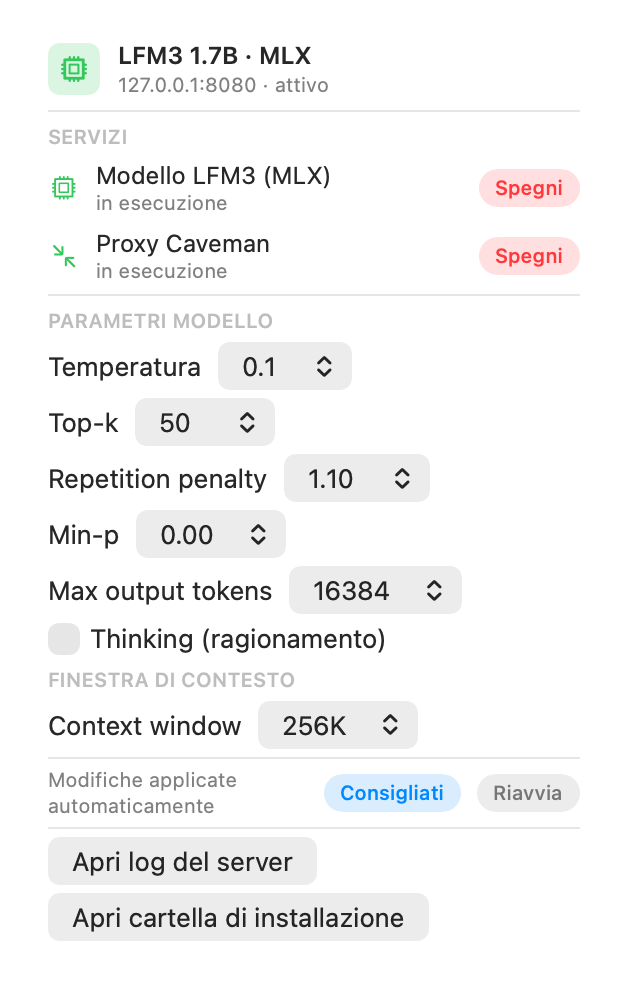
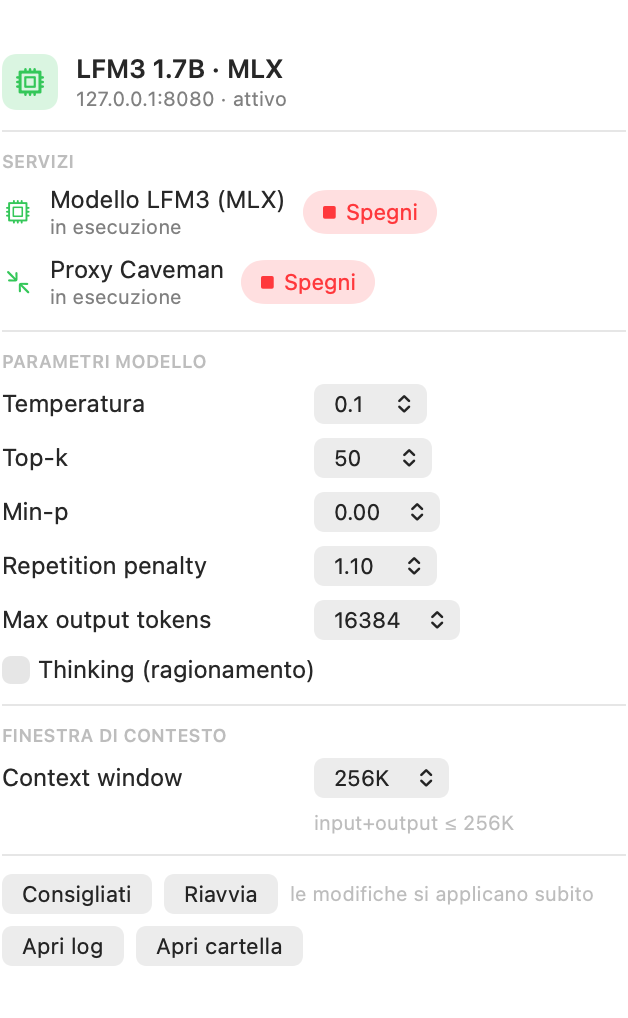
UI: pannello personalizzato con layout allineato a sinistra
- .menuBarExtraStyle(.window): il menu nativo imposeva sottomenu per i picker
  (Temperatura >) e pulsanti a tutta larghezza su righe separate
- etichette, controlli, pulsanti e opzioni tutti allineati a sinistra
- pulsanti Spegni/Accendi spostati accanto al testo del servizio
- nuovo parametro min-p e pulsante 'Consigliati' per i valori ufficiali LFM3
- indicatore dell'ora di applicazione e didascalia sul limite di contesto
- install.sh: sequenziamento bootout/sleep/bootstrap (evita I/O error) e verifica
- release con LFM3Control.app impacchettato

diff --git a/src/LFM3Control.swift b/src/LFM3Control.swift
@@ -276,26 +276,34 @@ final class AppState: ObservableObject {
     }
 }
 
-// MARK: - Interfaccia
+// MARK: - Interfaccia (pannello)
 
-private struct SectionHeader: View {
-    let text: String
+private struct ValuePicker<T: Hashable>: View {
+    @Binding var selection: T
+    let options: [T]
+    let label: (T) -> String
+
     var body: some View {
-        Text(text.uppercased())
-            .font(.system(size: 10, weight: .semibold))
-            .foregroundStyle(.tertiary)
-            .padding(.top, 2)
+        Picker("", selection: $selection) {
+            ForEach(options, id: \.self) { Text(label($0)).tag($0) }
+        }
+        .pickerStyle(.menu)
+        .labelsHidden()
+        .controlSize(.small)
+        .frame(width: 96, alignment: .leading)
     }
 }
+
+
 
 private struct ServiceRow: View {
     @ObservedObject var service: Service
 
     var body: some View {
-        HStack(spacing: 8) {
+        HStack(alignment: .center, spacing: 8) {
             Image(systemName: service.symbol)
                 .font(.system(size: 12))
-                .frame(width: 16)
+                .frame(width: 16, alignment: .center)
                 .foregroundStyle(service.isRunning ? Color.green : Color.secondary)
             VStack(alignment: .leading, spacing: 0) {
                 Text(service.title).font(.system(size: 12))
@@ -303,35 +311,55 @@ private struct ServiceRow: View {
                     .font(.system(size: 10))
                     .foregroundStyle(.secondary)
             }
-            Spacer(minLength: 8)
-            if service.isBusy {
-                ProgressView().controlSize(.small).scaleEffect(0.7)
-            } else {
-                Button {
-                    service.toggle()
-                } label: {
+            Button {
+                service.toggle()
+            } label: {
+                HStack(spacing: 4) {
+                    Image(systemName: service.isRunning ? "stop.fill" : "play.fill")
+                        .font(.system(size: 8))
                     Text(service.isRunning ? "Spegni" : "Accendi")
-                        .font(.system(size: 10, weight: .medium))
-                        .padding(.horizontal, 8)
-                        .padding(.vertical, 3)
-                        .background(
-                            Capsule().fill(
-                                (service.isRunning ? Color.red : Color.green).opacity(0.16)
-                            )
-                        )
-                        .foregroundStyle(service.isRunning ? Color.red : Color.green)
+                        .font(.system(size: 11))
                 }
-                .buttonStyle(.plain)
+                .padding(.horizontal, 9)
+                .padding(.vertical, 4)
+                .background(
+                    Capsule().fill((service.isRunning ? Color.red : Color.green).opacity(0.16))
+                )
+                .foregroundStyle(service.isRunning ? Color.red : Color.green)
             }
+            .buttonStyle(.plain)
+            .disabled(service.isBusy)
         }
         .padding(.vertical, 1)
+    }
+}
+
+private struct SectionLabel: View {
+    let text: String
+    var body: some View {
+        Text(text.uppercased())
+            .font(.system(size: 9, weight: .semibold))
+            .foregroundStyle(.tertiary)
     }
 }
 
 struct MenuContent: View {
     @ObservedObject var state: AppState
 
-    /// Binding che applica subito la modifica (niente pulsante "Applica" dimenticato).
+    /// Riga etichetta + controllo, tutto allineato a sinistra.
+    @ViewBuilder
+    private func paramRow<T: View>(_ label: String, @ViewBuilder control: () -> T) -> some View {
+        HStack(alignment: .firstTextBaseline, spacing: 8) {
+            Text(label)
+                .font(.system(size: 12))
+                .frame(width: 148, alignment: .leading)
+            control()
+            Spacer(minLength: 0)
+        }
+        .padding(.vertical, 1)
+    }
+
+    /// Binding che applica subito la modifica (nessun pulsante "Applica" da ricordare).
     private func bind<T>(_ get: @escaping () -> T, _ set: @escaping (T) -> Void) -> Binding<T> {
         Binding(get: get, set: { newValue in
             set(newValue)
@@ -340,131 +368,172 @@ struct MenuContent: View {
     }
 
     var body: some View {
-        VStack(alignment: .leading, spacing: 4) {
+        VStack(alignment: .leading, spacing: 9) {
             header
-            Divider()
-
-            SectionHeader(text: "Servizi")
-            ServiceRow(service: state.model)
-            ServiceRow(service: state.caveman)
 
             Divider()
 
-            SectionHeader(text: "Parametri modello")
-            Picker("Temperatura", selection: bind({ state.settings.temperature }, { state.settings.temperature = $0 })) {
-                ForEach([0.0, 0.1, 0.3, 0.5, 0.7, 1.0], id: \.self) {
-                    Text(String(format: "%.1f", $0)).tag($0)
-                }
-            }
-            Picker("Top-k", selection: bind({ state.settings.topK }, { state.settings.topK = $0 })) {
-                ForEach([0, 20, 50, 100], id: \.self) {
-                    Text($0 == 0 ? "off" : String($0)).tag($0)
-                }
-            }
-            Picker("Repetition penalty", selection: bind({ state.settings.repetitionPenalty }, { state.settings.repetitionPenalty = $0 })) {
-                ForEach([1.0, 1.05, 1.1, 1.2], id: \.self) {
-                    Text(String(format: "%.2f", $0)).tag($0)
-                }
-            }
-            Picker("Min-p", selection: bind({ state.settings.minP }, { state.settings.minP = $0 })) {
-                ForEach([0.0, 0.05, 0.1], id: \.self) {
-                    Text(String(format: "%.2f", $0)).tag($0)
-                }
-            }
-            Picker("Max output tokens", selection: bind({ state.settings.maxTokens }, { state.settings.maxTokens = $0 })) {
-                ForEach([2048, 4096, 8192, 16384], id: \.self) {
-                    Text(String($0)).tag($0)
-                }
-            }
-            Toggle("Thinking (ragionamento)", isOn: bind({ state.settings.enableThinking }, { state.settings.enableThinking = $0 }))
-
-            SectionHeader(text: "Finestra di contesto")
-            Picker("Context window", selection: Binding(
-                get: { state.contextWindow },
-                set: { state.applyContext($0) }
-            )) {
-                ForEach([32768, 65536, 131072, 262144], id: \.self) {
-                    Text("\($0 / 1024)K").tag($0)
-                }
+            VStack(alignment: .leading, spacing: 5) {
+                SectionLabel(text: "Servizi")
+                ServiceRow(service: state.model)
+                ServiceRow(service: state.caveman)
             }
 
             Divider()
 
-            if let busy = state.busyMessage {
-                HStack(spacing: 6) {
-                    ProgressView().controlSize(.small).scaleEffect(0.6)
-                    Text(busy).font(.system(size: 10)).foregroundStyle(.secondary)
+            VStack(alignment: .leading, spacing: 5) {
+                SectionLabel(text: "Parametri modello")
+                paramRow("Temperatura") {
+                    ValuePicker(
+                        selection: bind({ state.settings.temperature }, { state.settings.temperature = $0 }),
+                        options: [0.0, 0.1, 0.3, 0.5, 0.7, 1.0],
+                        label: { String(format: "%.1f", $0) }
+                    )
                 }
-            }
-
-            HStack {
-                if let applied = state.lastApplied {
-                    Label("Applicato \(applied.formatted(date: .omitted, time: .shortened))", systemImage: "checkmark.circle.fill")
-                        .font(.system(size: 10))
-                        .foregroundStyle(.green)
-                } else {
-                    Text("Modifiche applicate automaticamente")
-                        .font(.system(size: 10))
-                        .foregroundStyle(.secondary)
+                paramRow("Top-k") {
+                    ValuePicker(
+                        selection: bind({ state.settings.topK }, { state.settings.topK = $0 }),
+                        options: [0, 20, 50, 100],
+                        label: { $0 == 0 ? "off" : String($0) }
+                    )
                 }
-                Spacer()
-                Button {
-                    state.settings.applyRecommended()
-                    state.applySampling()
-                } label: {
-                    Text("Consigliati")
-                        .font(.system(size: 10, weight: .medium))
-                        .padding(.horizontal, 8)
-                        .padding(.vertical, 3)
-                        .background(Capsule().fill(Color.blue.opacity(0.15)))
-                        .foregroundStyle(Color.blue)
+                paramRow("Min-p") {
+                    ValuePicker(
+                        selection: bind({ state.settings.minP }, { state.settings.minP = $0 }),
+                        options: [0.0, 0.05, 0.1],
+                        label: { String(format: "%.2f", $0) }
+                    )
                 }
-                .buttonStyle(.plain)
-
-                Button {
-                    state.restartStack()
-                } label: {
-                    Text("Riavvia")
-                        .font(.system(size: 10, weight: .medium))
-                        .padding(.horizontal, 8)
-                        .padding(.vertical, 3)
-                        .background(Capsule().fill(Color.secondary.opacity(0.15)))
-                        .foregroundStyle(.secondary)
+                paramRow("Repetition penalty") {
+                    ValuePicker(
+                        selection: bind({ state.settings.repetitionPenalty }, { state.settings.repetitionPenalty = $0 }),
+                        options: [1.0, 1.05, 1.1, 1.2],
+                        label: { String(format: "%.2f", $0) }
+                    )
                 }
-                .buttonStyle(.plain)
+                paramRow("Max output tokens") {
+                    ValuePicker(
+                        selection: bind({ state.settings.maxTokens }, { state.settings.maxTokens = $0 }),
+                        options: [2048, 4096, 8192, 16384],
+                        label: { String($0) }
+                    )
+                }
+                HStack(spacing: 8) {
+                    Toggle(isOn: bind({ state.settings.enableThinking }, { state.settings.enableThinking = $0 })) {
+                        Text("Thinking (ragionamento)")
+                            .font(.system(size: 12))
+                    }
+                    .toggleStyle(.checkbox)
+                    .controlSize(.small)
+                }
+                .padding(.vertical, 1)
             }
 
             Divider()
 
-            Button("Apri log del server") { state.openLogs() }
-            Button("Apri cartella di installazione") { state.openFolder() }
+            VStack(alignment: .leading, spacing: 5) {
+                SectionLabel(text: "Finestra di contesto")
+                paramRow("Context window") {
+                    ValuePicker(
+                        selection: Binding(get: { state.contextWindow }, set: { state.applyContext($0) }),
+                        options: [32768, 65536, 131072, 262144],
+                        label: { "\($0 / 1024)K" }
+                    )
+                }
+                Text("input+output ≤ \(state.contextWindow / 1024)K")
+                    .font(.system(size: 10))
+                    .foregroundStyle(.tertiary)
+                    .padding(.leading, 156)
+            }
+
+            Divider()
+
+            footer
         }
-        .padding(.horizontal, 12)
-        .padding(.vertical, 8)
-        .frame(width: 290)
+        .padding(14)
+        .frame(width: 340, alignment: .leading)
+        .background(Color(nsColor: .windowBackgroundColor))
         .onAppear { state.reloadFromDisk() }
     }
 
     private var header: some View {
         HStack(spacing: 9) {
             ZStack {
-                RoundedRectangle(cornerRadius: 6, style: .continuous)
+                RoundedRectangle(cornerRadius: 7, style: .continuous)
                     .fill(state.model.isRunning ? Color.green.opacity(0.18) : Color.secondary.opacity(0.14))
-                    .frame(width: 26, height: 26)
+                    .frame(width: 28, height: 28)
                 Image(systemName: "cpu")
-                    .font(.system(size: 13, weight: .semibold))
+                    .font(.system(size: 14, weight: .semibold))
                     .foregroundStyle(state.model.isRunning ? Color.green : Color.secondary)
             }
             VStack(alignment: .leading, spacing: 1) {
                 Text("LFM3 1.7B · MLX")
-                    .font(.system(size: 12, weight: .semibold))
-                Text(state.model.isRunning ? "127.0.0.1:8080 · attivo" : "server spento")
+                    .font(.system(size: 13, weight: .semibold))
+                Text(state.model.isRunning ? "127.0.0.1:8080 · attivo" : "127.0.0.1:8080 · spento")
                     .font(.system(size: 10))
                     .foregroundStyle(.secondary)
             }
-            Spacer()
+            Spacer(minLength: 0)
+            if let busy = state.busyMessage {
+                HStack(spacing: 5) {
+                    ProgressView().controlSize(.small).scaleEffect(0.6)
+                    Text(busy).font(.system(size: 10)).foregroundStyle(.secondary)
+                }
+            }
         }
-        .padding(.bottom, 2)
+    }
+
+    private var footer: some View {
+        VStack(alignment: .leading, spacing: 6) {
+            HStack(spacing: 6) {
+                Button {
+                    state.settings.applyRecommended()
+                    state.applySampling()
+                } label: {
+                    Text("Consigliati").font(.system(size: 11))
+                }
+                .buttonStyle(.bordered)
+                .controlSize(.small)
+
+                Button {
+                    state.restartStack()
+                } label: {
+                    Text("Riavvia").font(.system(size: 11))
+                }
+                .buttonStyle(.bordered)
+                .controlSize(.small)
+
+                if let applied = state.lastApplied {
+                    Text("applicato \(applied.formatted(date: .omitted, time: .shortened))")
+                        .font(.system(size: 10))
+                        .foregroundStyle(.tertiary)
+                } else {
+                    Text("le modifiche si applicano subito")
+                        .font(.system(size: 10))
+                        .foregroundStyle(.tertiary)
+                }
+                Spacer(minLength: 0)
+            }
+
+            HStack(spacing: 6) {
+                Button {
+                    state.openLogs()
+                } label: {
+                    Text("Apri log").font(.system(size: 11))
+                }
+                .buttonStyle(.bordered)
+                .controlSize(.small)
+
+                Button {
+                    state.openFolder()
+                } label: {
+                    Text("Apri cartella").font(.system(size: 11))
+                }
+                .buttonStyle(.bordered)
+                .controlSize(.small)
+                Spacer(minLength: 0)
+            }
+        }
     }
 }
 
@@ -480,6 +549,7 @@ struct LFM3ControlApp: App {
                 .symbolRenderingMode(.hierarchical)
                 .foregroundStyle(state.model.isRunning ? Color.green : Color.secondary)
         }
-        .menuBarExtraStyle(.menu)
+        // Pannello libero: il menu nativo imporrebbe sottomenu e righe a tutta larghezza.
+        .menuBarExtraStyle(.window)
     }
 }
